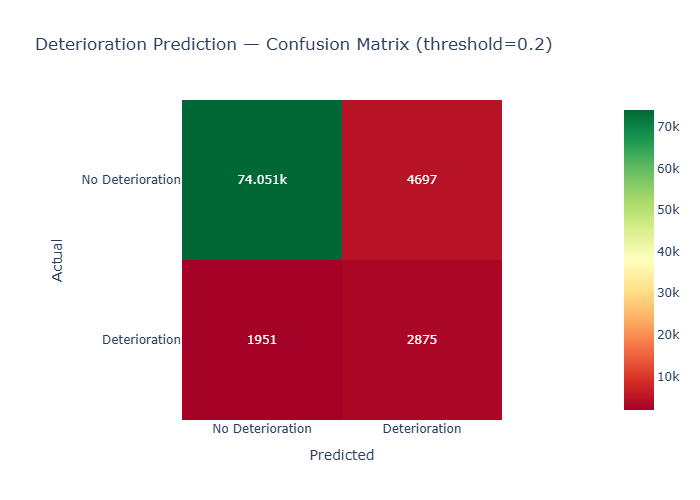
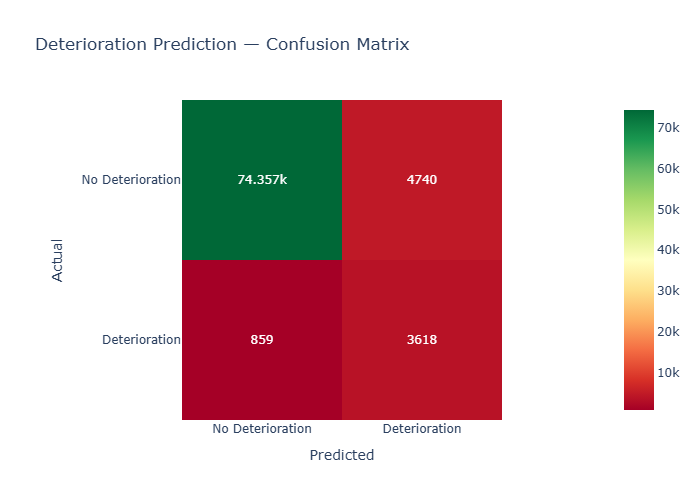
clinical worker form  updated

diff --git a/app.py b/app.py
@@ -6,7 +6,7 @@ import pandas as pd
 from reportlab.lib.pagesizes import A4
 from reportlab.pdfgen import canvas
 from modules.FIRSTAID import get_first_aid,SPECIAL_FIRST_AID
-from modules.model_backend import load_model_and_features, predict_triage
+from modules.model_backend import load_model_and_features, predict_triage,load_anomaly_model,predict_deterioration,get_deterioration_recommendations
 from modules.BanglaSymptoms import extract_bangla_symptoms
 from modules.gemini_helper import generate_ai_response
 from gtts import gTTS
@@ -210,7 +210,8 @@ chest pain, sweating, shortness of breath
 **Gray case:**  
 today the weather is good
 """,
-        "tab_form": "Patient Form",
+        "patient_form": "Patient Form",
+        'worker_form':'Clinical Worker Form',
         "tab_result": "Result",
         "patient_info": "Patient Information",
         "age": "Age",
@@ -290,7 +291,8 @@ today the weather is good
 **Gray case:**  
 আজ আবহাওয়া ভালো
 """,
-        "tab_form": "রোগীর ফর্ম",
+        "patient_form": "রোগীর ফর্ম",
+        "worker_form": "ক্লিনিক্যাল মূল্যায়ন ফর্ম",
         "tab_result": "ফলাফল",
         "patient_info": "রোগীর তথ্য",
         "age": "বয়স",
@@ -1049,6 +1051,50 @@ def create_tts_audio(text):
     buffer.seek(0)
     return buffer
 
+NORMAL_RANGES = {
+    "heart_rate": (60, 100, "bpm"),
+    "respiratory_rate": (12, 20, "breaths/min"),
+    "spo2_pct": (95, 100, "%"),
+    "temperature_c": (36.1, 37.2, "°C"),
+    "systolic_bp": (90, 120, "mmHg"),
+    "diastolic_bp": (60, 80, "mmHg"),
+    "hemoglobin": (12, 16, "g/dL"),
+    "wbc_count": (4, 11, "x10^9/L"),
+    "crp_level": (0, 10, "mg/L"),
+    "creatinine": (0.6, 1.3, "mg/dL"),
+}
+
+NORMAL_RANGES_BN = {
+    "heart_rate": "হৃদস্পন্দন",
+    "respiratory_rate": "শ্বাসের গতি",
+    "spo2_pct": "অক্সিজেন স্যাচুরেশন",
+    "temperature_c": "তাপমাত্রা",
+    "systolic_bp": "সিস্টোলিক রক্তচাপ",
+    "diastolic_bp": "ডায়াস্টোলিক রক্তচাপ",
+    "hemoglobin": "হিমোগ্লোবিন",
+    "wbc_count": "WBC কাউন্ট",
+    "crp_level": "CRP লেভেল",
+    "creatinine": "ক্রিয়েটিনিন",
+}
+
+
+def check_abnormal_vitals(vitals, language="English"):
+    abnormal = []
+
+    for key, (low, high, unit) in NORMAL_RANGES.items():
+        val = vitals.get(key)
+        if val is None:
+            continue
+
+        if val < low or val > high:
+            name = NORMAL_RANGES_BN[key] if language == "বাংলা" else key.replace("_", " ").title()
+
+            if language == "বাংলা":
+                abnormal.append(f"{name}: {val} {unit} (স্বাভাবিক সীমা: {low}-{high} {unit})")
+            else:
+                abnormal.append(f"{name}: {val} {unit} (normal range: {low}-{high} {unit})")
+
+    return abnormal
 
 @st.cache_resource
 def load_resources():
@@ -1103,7 +1149,7 @@ if "alternate_referral" not in st.session_state:
 if "first_aid" not in st.session_state:
     st.session_state.first_aid = None
     
-tab1, tab2 = st.tabs([t["tab_form"], t["tab_result"]])
+tab1, tab2,tab3 = st.tabs([t["patient_form"], t["worker_form"],t['tab_result']])
 
 
 with tab1:
@@ -1276,6 +1322,9 @@ with tab1:
 
         st.session_state.symptoms = symptoms
         st.session_state.triage_result = result
+        st.session_state.original_triage_color = result["color"]
+        st.session_state.original_triage_message = result["message"]
+        st.session_state.original_triage_source = result["source"]
         st.session_state.ai_response = None
         st.session_state.first_aid = None
         st.session_state.referral = None
@@ -1283,7 +1332,108 @@ with tab1:
         st.success(t["triage_done"])
 
 
+
 with tab2:
+    st.header("Vital Signs Monitor" if language == "English" else "ভাইটাল সাইন মনিটর")
+
+    v_col1, v_col2 = st.columns(2)
+
+    with v_col1:
+        v_age = st.number_input("Age" if language=="English" else "বয়স", 0, 120, 30, key="v_age")
+        v_gender = st.selectbox(
+            "Gender" if language=="English" else "লিঙ্গ",
+            [t["male"], t["female"]], key="v_gender"
+        )
+        hour_from_admission = st.number_input("Hours Since Admission" if language=="English" else "ভর্তির পর কত ঘণ্টা", 0, 72, 1)
+        heart_rate = st.number_input("Heart Rate (bpm)" if language=="English" else "হৃদস্পন্দন (bpm)", 30, 220, 80)
+        respiratory_rate = st.number_input("Respiratory Rate (breaths/min)" if language=="English" else "শ্বাসের গতি", 5, 60, 16)
+        spo2_pct = st.number_input("SpO2 (%)" if language=="English" else "অক্সিজেন স্যাচুরেশন (%)", 50, 100, 98)
+        temperature_c = st.number_input("Temperature (°C)" if language=="English" else "তাপমাত্রা (°C)", 30.0, 43.0, 37.0, step=0.1)
+
+    with v_col2:
+        systolic_bp = st.number_input("Systolic BP" if language=="English" else "সিস্টোলিক রক্তচাপ", 50, 250, 120)
+        diastolic_bp = st.number_input("Diastolic BP" if language=="English" else "ডায়াস্টোলিক রক্তচাপ", 30, 150, 80)
+        oxygen_flow = st.number_input("Oxygen Flow (L/min)" if language=="English" else "অক্সিজেন প্রবাহ (L/min)", 0.0, 15.0, 0.0, step=0.5)
+  
+        comorbidity_index = st.number_input("Comorbidity Index (0-5)" if language=="English" else "সহ-রোগ সংখ্যা (0-5)", 0, 5, 0)
+        hemoglobin = st.number_input("Hemoglobin (g/dL)" if language=="English" else "হিমোগ্লোবিন (g/dL)", 3.0, 20.0, 13.0, step=0.1)
+        wbc_count = st.number_input("WBC Count (x10^9/L)" if language=="English" else "WBC কাউন্ট", 1.0, 40.0, 7.0, step=0.1)
+        crp_level = st.number_input("CRP Level (mg/L)" if language=="English" else "CRP লেভেল", 0.0, 300.0, 5.0, step=0.5)
+        creatinine = st.number_input("Creatinine (mg/dL)" if language=="English" else "ক্রিয়েটিনিন (mg/dL)", 0.1, 15.0, 1.0, step=0.1)
+    
+
+    if st.button("Check Deterioration Risk" if language=="English" else "ঝুঁকি যাচাই করুন", type="primary", key="check_anomaly"):
+
+        vitals = {
+            "heart_rate": heart_rate,
+            "respiratory_rate": respiratory_rate,
+            "spo2_pct": spo2_pct,
+            "temperature_c": temperature_c,
+            "systolic_bp": systolic_bp,
+            "diastolic_bp": diastolic_bp,
+            "age": v_age,
+            "sex": 1 if v_gender == t["female"] else 0,
+            "comorbidity_index": comorbidity_index,
+            "hemoglobin": hemoglobin,
+            "wbc_count": wbc_count,
+            "crp_level": crp_level,
+            "oxygen_flow": oxygen_flow,
+            "creatinine": creatinine,
+            "hour_from_admission": hour_from_admission,
+    }
+
+        anomaly_model, anomaly_cols, threshold = load_anomaly_model()
+        anomaly, probability = predict_deterioration(vitals, anomaly_model, anomaly_cols, threshold)
+        st.session_state.vitals = vitals
+        st.session_state.anomaly = anomaly
+        st.session_state.anomaly_proba = probability
+
+        abnormal_list = check_abnormal_vitals(vitals, language)
+
+        order = ["green", "orange", "red"]
+
+        if st.session_state.triage_result is not None:
+          base_color = st.session_state.get("original_triage_color", st.session_state.triage_result["color"])
+          base_message = st.session_state.get("original_triage_message", st.session_state.triage_result["message"])
+          base_source = st.session_state.get("original_triage_source", st.session_state.triage_result["source"])
+
+
+          if len(abnormal_list) >= 2 and base_color in order:
+             idx = order.index(base_color)
+             new_color = order[min(idx + 1, len(order) - 1)]
+             st.session_state.triage_result["color"] = new_color
+             st.session_state.triage_result["source"] = "Vitals-based escalation" if language=="English" else "ভাইটাল-ভিত্তিক উন্নতি"
+             st.session_state.triage_result["message"] =  (
+            " Multiple abnormal vitals detected — possible deterioration risk."
+            if language == "English" else
+            " একাধিক অস্বাভাবিক ভাইটাল পাওয়া গেছে — স্বাস্থ্যের অবনতির ঝুঁকি থাকতে পারে।"
+          )
+          else:
+            st.session_state.triage_result["color"] = base_color
+            st.session_state.triage_result["source"] = base_source
+            st.session_state.triage_result["message"] = base_message
+
+        st.success("Check completed. See result below." if language=="English" else "যাচাই সম্পন্ন হয়েছে। নিচে ফলাফল দেখুন।")
+
+    if "vitals" in st.session_state:
+        vitals = st.session_state.vitals
+        abnormal_list = check_abnormal_vitals(vitals, language)
+
+        if abnormal_list:
+            st.warning("⚠️ Abnormal Vitals Detected" if language=="English" else "⚠️ অস্বাভাবিক ভাইটাল পাওয়া গেছে")
+            for item in abnormal_list:
+                st.write(f"- {item}")
+        else:
+            st.success("✅ All vitals within normal range" if language=="English" else "✅ সব ভাইটাল স্বাভাবিক সীমার মধ্যে")
+
+        st.subheader("Recommendations" if language=="English" else "সুপারিশ")
+        recs = get_deterioration_recommendations(vitals, language)
+        for r in recs:
+            st.write(f"- {r}")
+
+        
+
+with tab3:
     st.header(t["triage_result"])
 
     if st.session_state.triage_result is None:

diff --git a/modules/model_backend.py b/modules/model_backend.py
@@ -16,6 +16,74 @@ def load_model_and_features():
     return model, feature_cols
 
 
+def load_anomaly_model():
+    anomaly_model = pickle.load(open("anomaly_model.pkl", "rb"))
+    anomaly_cols = pickle.load(open("deterioration_feature_cols.pkl", "rb"))
+    anomaly_threshold = pickle.load(open("anomaly_threshold.pkl", "rb"))
+    return anomaly_model, anomaly_cols, anomaly_threshold
+
+
+def predict_deterioration(vitals, anomaly_model, anomaly_cols, threshold):
+    row = {col: vitals.get(col, 0) for col in anomaly_cols}
+    input_df = pd.DataFrame([row], columns=anomaly_cols)
+    proba = anomaly_model.predict_proba(input_df)[0][1]
+    anomaly = int(proba >= threshold)
+    return anomaly, round(proba * 100, 1)
+
+def get_deterioration_recommendations(vitals, language="English"):
+    recs_en, recs_bn = [], []
+
+    if vitals.get("heart_rate", 80) > 120 or vitals.get("heart_rate", 80) < 50:
+        recs_en.append("Abnormal heart rate — continuous monitoring needed.")
+        recs_bn.append("হৃদস্পন্দন অস্বাভাবিক — নিয়মিত পর্যবেক্ষণ প্রয়োজন।")
+
+    if vitals.get("spo2_pct", 98) < 92:
+        recs_en.append("Low oxygen saturation — consider oxygen support.")
+        recs_bn.append("অক্সিজেন মাত্রা কম — অক্সিজেন সাপোর্ট প্রয়োজন হতে পারে।")
+
+    if vitals.get("temperature_c", 37) > 39:
+        recs_en.append("High fever — start cooling, recheck in 1 hour.")
+        recs_bn.append("উচ্চ জ্বর — শরীর ঠান্ডা করুন, ১ ঘণ্টা পর পুনরায় মাপুন।")
+
+    if vitals.get("systolic_bp", 120) < 90:
+        recs_en.append("Low blood pressure — risk of shock.")
+        recs_bn.append("নিম্ন রক্তচাপ — শক হওয়ার ঝুঁকি আছে।")
+
+    if vitals.get("respiratory_rate", 16) > 24:
+        recs_en.append("Fast breathing — monitor airway closely.")
+        recs_bn.append("শ্বাসের গতি বেশি — শ্বাসনালী খেয়াল রাখুন।")
+
+    if vitals.get("crp_level", 5) > 50:
+        recs_en.append("High CRP — possible severe infection, blood tests advised.")
+        recs_bn.append("উচ্চ CRP — গুরুতর সংক্রমণের সম্ভাবনা, রক্ত পরীক্ষা করুন।")
+
+    if vitals.get("wbc_count", 7) > 12:
+        recs_en.append("Elevated WBC count — infection markers present.")
+        recs_bn.append("WBC বেশি — সংক্রমণের লক্ষণ আছে।")
+
+    if vitals.get("hemoglobin", 13) < 9:
+        recs_en.append("Low hemoglobin — anemia evaluation needed.")
+        recs_bn.append("কম হিমোগ্লোবিন — রক্তশূন্যতা পরীক্ষা প্রয়োজন।")
+
+    if vitals.get("comorbidity_index", 0) >= 2:
+        recs_en.append("Multiple existing conditions — handle with extra caution.")
+        recs_bn.append("একাধিক রোগ আছে — অতিরিক্ত সতর্কতা প্রয়োজন।")
+    if vitals.get("oxygen_flow", 0) > 0:
+      recs_en.append("Patient is on supplemental oxygen — monitor SpO2 closely for changes.")
+      recs_bn.append("রোগী অক্সিজেন সাপোর্টে আছে — SpO2 নিয়মিত পর্যবেক্ষণ করুন।")
+    if vitals.get("creatinine", 1) > 1.5:
+        recs_en.append("Elevated creatinine — possible kidney function concern, monitor fluids.")
+        recs_bn.append("ক্রিয়েটিনিন বেশি — কিডনি সমস্যার সম্ভাবনা, তরল গ্রহণ নিয়ন্ত্রণ করুন।")
+    if vitals.get("hour_from_admission", 0) > 24:
+       recs_en.append("Patient has been admitted over 24 hours — reassess overall trend, not just current vitals.")
+       recs_bn.append("রোগী ২৪ ঘণ্টার বেশি ভর্তি আছেন — সামগ্রিক অবস্থার পরিবর্তন পর্যালোচনা করুন।")
+
+    if not recs_en:
+        recs_en.append("Vitals within normal range. Continue routine monitoring.")
+        recs_bn.append("ভাইটাল স্বাভাবিক সীমার মধ্যে। নিয়মিত পর্যবেক্ষণ চালিয়ে যান।")
+
+    return recs_bn if language == "বাংলা" else recs_en
+
 def make_input_dataframe(symptoms, feature_cols):
     input_row = {col: symptoms.get(col, 0) for col in feature_cols}
     input_df = pd.DataFrame([input_row], columns=feature_cols)

diff --git a/anomaly.py b/anomaly.py
@@ -2,11 +2,12 @@ import pandas as pd
 from xgboost import XGBClassifier
 from sklearn.metrics import classification_report
 import pickle
-# from sklearn.ensemble import RandomForestClassifier
 from sklearn.metrics import confusion_matrix
 import plotly.express as px
+import numpy as np
 
 df = pd.read_csv('anomaly_detection_data.csv')
+df = df.sample(frac=1, random_state=42).reset_index(drop=True)
 df = df.drop_duplicates()
 
 df['sex'] = df['gender'].map({'F': 1, 'M': 0})
@@ -16,48 +17,56 @@ drop_cols = [
     'gender',
     'nurse_alert',
     'deterioration_next_12h'
-   
 ]
-
 
 y = df['deterioration_next_12h']
 X = df.drop(columns=drop_cols)
-
 
 split = int(0.8 * len(df))
 X_train, X_test = X[:split], X[split:]
 y_train, y_test = y[:split], y[split:]
 
-# model=RandomForestClassifier(class_weight='balanced',random_state=42)
-model = XGBClassifier(                
+model = XGBClassifier(
     random_state=42,
     scale_pos_weight=len(y_train[y_train==0]) / len(y_train[y_train==1])
 )
 
 model.fit(X_train, y_train)
 
-y_pred = model.predict(X_test)
 proba = model.predict_proba(X_test)[:,1]
-y_pred = (proba >= 0.65).astype(int)
 
-# print(classification_report(y_test, y_pred))
-# print(confusion_matrix(y_test,y_pred,labels=[0,1]))
+# ===== DIAGNOSTICS =====
+print("Min:", proba.min(), "Max:", proba.max(), "Mean:", proba.mean())
+print("90th percentile:", np.percentile(proba, 90))
+print("95th percentile:", np.percentile(proba, 95))
+print("99th percentile:", np.percentile(proba, 99))
+
+# pick threshold based on percentile above
+THRESHOLD = np.percentile(proba, 90)
+y_pred = (proba >= THRESHOLD).astype(int)
+
+print("Chosen threshold:", THRESHOLD)
+print(classification_report(y_test, y_pred))
+print(confusion_matrix(y_test, y_pred, labels=[0,1]))
+
+with open('anomaly_model.pkl', 'wb') as f:
+    pickle.dump(model, f)
+
+with open('anomaly_threshold.pkl', 'wb') as f:
+    pickle.dump(THRESHOLD, f)
 
 feature_cols = list(X_train.columns)
 with open('deterioration_feature_cols.pkl', 'wb') as f:
     pickle.dump(feature_cols, f)
-    
-# print('saved model')
 
 cm = confusion_matrix(y_test, y_pred, labels=[0,1])
-fig = px.imshow(cm, text_auto=True, 
+fig = px.imshow(cm, text_auto=True,
                  x=['No Deterioration','Deterioration'],
                  y=['No Deterioration','Deterioration'],
                  color_continuous_scale='RdYlGn',
                  labels=dict(x="Predicted", y="Actual"),
-                 title='Deterioration Prediction — Confusion Matrix (threshold=0.2)')
+                 title='Deterioration Prediction — Confusion Matrix')
 fig.write_image("assets/deterioration_confusion_matrix.png")
-# fig.show()
 
 importance_df = pd.DataFrame({
     'feature': X_train.columns,
@@ -68,5 +77,3 @@ fig = px.bar(importance_df, x='importance', y='feature', orientation='h',
               title='Top Predictors of Patient Deterioration')
 fig.update_layout(yaxis={'categoryorder':'total ascending'})
 fig.write_image("assets/deterioration_feature_importance.png")
-# fig.show()
-

diff --git a/tempCodeRunnerFile.py b/tempCodeRunnerFile.py
@@ -1,0 +1,4 @@
+row = {col: vitals.get(col, 0) for col in cols}
+# df = pd.DataFrame([row], columns=cols)
+# print(df)
+# print("Probability:", model.predict_proba(df)[0][1])